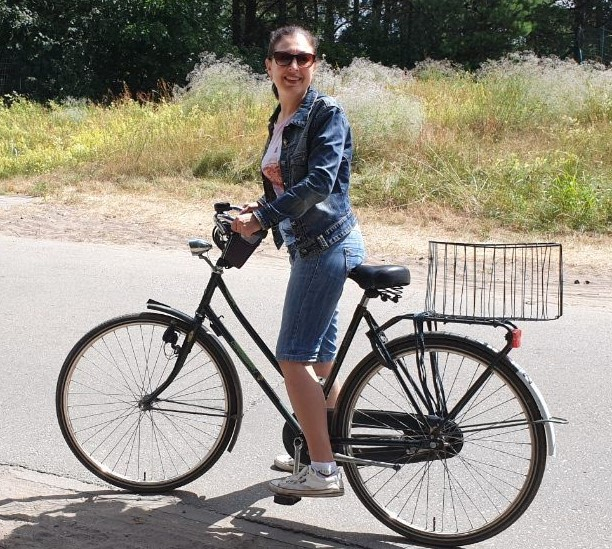
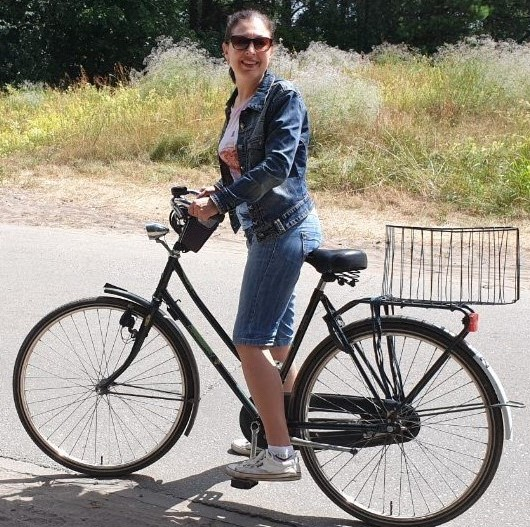
fix: change backgraund-color

diff --git a/style.css b/style.css
@@ -66,7 +66,7 @@ body {
     font-weight: 400;
     text-transform: uppercase;
     letter-spacing: 5px;
-    background-color: #a8d7d0;
+    background-color: #b6cceb;
     border-radius: 10px;
     padding-left: 10px;
     padding-right: 10px;
@@ -103,7 +103,7 @@ body {
     height: 300px;
     margin: 20px;
     width: 77%;
-    background-color: #a8d7d0;
+    background-color: #b6cceb;
     border-radius: 10px;
   }
   .name {

diff --git a/index.html b/index.html
@@ -24,7 +24,7 @@
         <div class="main-container">
         <section id="profile">
             <div class="foto">
-                <img src="img/foto2.jpg" width="100" height="100" alt="foto">
+                <img src="img/foto3.jpg" width="100" height="100" alt="foto">
             </div>
             <div class="name" id="name">
                 <div class="section-title">
